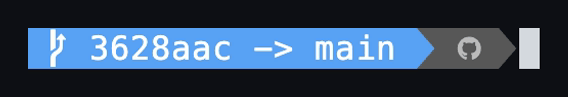
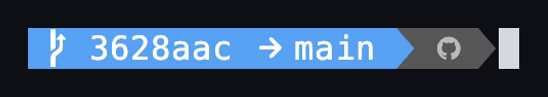
fix: name the same branch for a detached HEAD in both git backends, with a nerdfont arrow

Changed region(s): [[0.1551, 0.2784, 0.9617, 0.7113], [0.062, 0.3093, 0.1241, 0.6804]]

diff --git a/site/index.html b/site/index.html
@@ -78,7 +78,7 @@
             fsmonitor) and in-process gitoxide based on the size of the index.
           </p>
         </div>
-        <figure class="term"><img src="img/git.png" width="784" height="99" loading="lazy" alt="Three prompts in a repo: a dirty main branch with one modified, two untracked and one staged file, two commits ahead and one behind; the same branch clean after git stash; then a detached HEAD shown as 13aa74d -> main."></figure>
+        <figure class="term"><img src="img/git.png" width="784" height="99" loading="lazy" alt="Three prompts in a repo: a dirty main branch with one modified, two untracked and one staged file, two commits ahead and one behind; the same branch clean after git stash; then a detached HEAD shown as 13aa74d → main."></figure>
       </article>
 
       <article class="feature">

diff --git a/site/config.html b/site/config.html
@@ -457,7 +457,7 @@
 </div><!-- /example -->
           <div class="example" data-example="git/full">
   <div class="ex-label">All options, detached HEAD</div>
-  <figure class="term shot"><img src="img/config/git-full.png" width="284" height="48" loading="lazy" alt="The git example: All options, detached HEAD."></figure>
+  <figure class="term shot"><img src="img/config/git-full.png" width="274" height="48" loading="lazy" alt="The git example: All options, detached HEAD."></figure>
   <pre class="json"><code>{ <span class="k">"git"</span>: { <span class="k">"status_timeout_ms"</span>: <span class="n">500</span>, <span class="k">"backend"</span>: <span class="s">"cli"</span> } }</code></pre>
 </div><!-- /example -->
         </div>

diff --git a/src/modules/git/process.rs b/src/modules/git/process.rs
@@ -51,8 +51,9 @@ pub fn get_branch_name(s: &str) -> Option<&str> {
 
 /// `None` when `git` could not be run at all; `Some("Big Bang")` when it ran
 /// but found no commit (an unborn HEAD).
-pub fn get_detached_branch_name() -> Option<String> {
+pub fn get_detached_branch_name(path: &Path) -> Option<String> {
     let child = Command::new("git")
+        .current_dir(path)
         .args(["rev-parse", "--short", "HEAD"])
         .output()
         .ok()?;
@@ -62,7 +63,7 @@ pub fn get_detached_branch_name() -> Option<String> {
             .ok()?
             .split('\n')
             .next()?;
-        Some(detached_label(branch_at_head(), hash))
+        Some(detached_label(branch_at_head(path), hash))
     } else {
         Some(String::from("Big Bang"))
     }
@@ -71,30 +72,42 @@ pub fn get_detached_branch_name() -> Option<String> {
 /// The branch whose tip is HEAD, for labelling a detached HEAD. Local branches
 /// are preferred; remote-tracking branches (`origin/main`) are only consulted
 /// when no local branch matches.
-fn branch_at_head() -> Option<String> {
+fn branch_at_head(path: &Path) -> Option<String> {
     ["refs/heads/", "refs/remotes/"]
         .into_iter()
         .find_map(|prefix| {
+            // `%(refname:short)` would shorten `refs/remotes/origin/HEAD` to
+            // `origin`, so names are stripped here instead.
             let output = Command::new("git")
+                .current_dir(path)
                 .args([
                     "for-each-ref",
                     "--points-at=HEAD",
-                    "--format=%(refname:short)",
+                    "--format=%(refname) %(symref)",
                     prefix,
                 ])
                 .output()
                 .ok()
                 .filter(|out| out.status.success())?;
             let stdout = String::from_utf8(output.stdout).ok()?;
-            preferred_branch(
-                stdout
-                    .lines()
-                    .map(str::trim)
-                    // `origin/HEAD` is a symbolic ref, not a branch of its own.
-                    .filter(|name| !name.is_empty() && !name.ends_with("/HEAD"))
-                    .map(ToOwned::to_owned),
-            )
+            preferred_branch(branches_in(&stdout, prefix))
         })
+}
+
+/// Branch names from `for-each-ref --format='%(refname) %(symref)'` output,
+/// with `prefix` stripped. Symbolic refs such as `origin/HEAD` are not
+/// branches of their own and are skipped, as the gitoxide backend does.
+fn branches_in<'a>(stdout: &'a str, prefix: &'a str) -> impl Iterator<Item = String> + 'a {
+    stdout.lines().filter_map(move |line| {
+        let (refname, symref) = line.split_once(' ').unwrap_or((line, ""));
+        if !symref.trim().is_empty() {
+            return None;
+        }
+        refname
+            .strip_prefix(prefix)
+            .filter(|name| !name.is_empty())
+            .map(ToOwned::to_owned)
+    })
 }
 
 /// Whether the repository has any remote configured, and the browser URL of
@@ -113,14 +126,18 @@ fn branch_at_head() -> Option<String> {
 /// deleted, and is absent on a branch that was never pushed even though the
 /// repo has a remote.
 pub(super) fn remote_info(path: &Path) -> (bool, Option<String>) {
-    super::gitoxide::remote_info(path).unwrap_or_else(remote_info_from_cli)
+    super::gitoxide::remote_info(path).unwrap_or_else(|| remote_info_from_cli(path))
 }
 
 /// [`remote_info`] via a single `git remote -v`. Both remote names and their
 /// URLs come out of the one call: `git remote` for the names plus
 /// `git remote get-url` for the chosen one would cost two more spawns.
-fn remote_info_from_cli() -> (bool, Option<String>) {
-    let Ok(output) = Command::new("git").args(["remote", "-v"]).output() else {
+fn remote_info_from_cli(path: &Path) -> (bool, Option<String>) {
+    let Ok(output) = Command::new("git")
+        .current_dir(path)
+        .args(["remote", "-v"])
+        .output()
+    else {
         return (false, None);
     };
     if !output.status.success() {
@@ -166,6 +183,7 @@ pub fn run_git(path: &Path) -> GitStats {
 
 fn try_run_git(path: &Path) -> Option<GitStats> {
     let output = Command::new("git")
+        .current_dir(path)
         .args(["status", "--porcelain", "-b"])
         .output()
         .ok()?
@@ -195,7 +213,7 @@ fn try_run_git(path: &Path) -> Option<GitStats> {
             }
             String::from(branch_name)
         } else {
-            get_detached_branch_name()?
+            get_detached_branch_name(path)?
         }
     };
     let mut add_file = |entry: &str| {
@@ -234,7 +252,20 @@ fn try_run_git(path: &Path) -> Option<GitStats> {
 
 #[cfg(test)]
 mod tests {
-    use super::parse_remote_listing;
+    use super::{branches_in, parse_remote_listing};
+
+    #[test]
+    fn symbolic_remote_heads_are_not_branches() {
+        let stdout = "\
+refs/remotes/origin/HEAD refs/remotes/origin/main
+refs/remotes/origin/main 
+refs/remotes/upstream/feat/x 
+";
+        assert_eq!(
+            branches_in(stdout, "refs/remotes/").collect::<Vec<_>>(),
+            ["origin/main", "upstream/feat/x"]
+        );
+    }
 
     #[test]
     fn a_repo_without_remotes_has_neither_flag_nor_url() {

diff --git a/src/modules/git/gitoxide.rs b/src/modules/git/gitoxide.rs
@@ -274,6 +274,17 @@ mod tests {
         dir
     }
 
+    /// The label both backends should give HEAD when detached at `branch`.
+    fn detached(repo: &Path, branch: &str) -> String {
+        let output = Command::new("git")
+            .current_dir(repo)
+            .args(["rev-parse", "--short", "HEAD"])
+            .output()
+            .unwrap();
+        let hash = String::from_utf8(output.stdout).unwrap();
+        super::detached_label(Some(branch.to_owned()), hash.trim())
+    }
+
     /// The CLI backend takes its remote fields from here rather than spending a
     /// `git remote` spawn on them, so they have to agree with what a status
     /// walk of the same repository reports.
@@ -337,13 +348,9 @@ mod tests {
         let repo = init_repo();
         git(&repo, &["checkout", "-q", "--detach"]);
 
-        let stats = run_git(&repo);
-        assert!(
-            stats.branch_name.ends_with(" -> main"),
-            "expected `<hash> -> main`, got {:?}",
-            stats.branch_name
-        );
-        assert!(stats.branch_name.len() > " -> main".len());
+        let expected = detached(&repo, "main");
+        assert_eq!(run_git(&repo).branch_name, expected);
+        assert_eq!(super::super::process::run_git(&repo).branch_name, expected);
 
         std::fs::remove_dir_all(&repo).ok();
     }
@@ -356,7 +363,7 @@ mod tests {
 
         let stats = run_git(&repo);
         assert!(
-            !stats.branch_name.contains("->") && stats.branch_name.len() >= 7,
+            !stats.branch_name.contains(' ') && stats.branch_name.len() >= 7,
             "expected a bare hash, got {:?}",
             stats.branch_name
         );
@@ -368,6 +375,14 @@ mod tests {
     fn detached_head_at_a_remote_tip_falls_back_to_the_remote_branch() {
         let repo = init_repo();
         git(&repo, &["update-ref", "refs/remotes/origin/main", "HEAD"]);
+        git(
+            &repo,
+            &[
+                "symbolic-ref",
+                "refs/remotes/origin/HEAD",
+                "refs/remotes/origin/main",
+            ],
+        );
         // Move `main` on so only the remote-tracking ref matches the old tip.
         git(&repo, &["commit", "-q", "--allow-empty", "-m", "ahead"]);
         git(
@@ -375,12 +390,9 @@ mod tests {
             &["checkout", "-q", "--detach", "refs/remotes/origin/main"],
         );
 
-        let stats = run_git(&repo);
-        assert!(
-            stats.branch_name.ends_with(" -> origin/main"),
-            "expected `<hash> -> origin/main`, got {:?}",
-            stats.branch_name
-        );
+        let expected = detached(&repo, "origin/main");
+        assert_eq!(run_git(&repo).branch_name, expected);
+        assert_eq!(super::super::process::run_git(&repo).branch_name, expected);
 
         std::fs::remove_dir_all(&repo).ok();
     }

diff --git a/src/modules/git.rs b/src/modules/git.rs
@@ -137,10 +137,10 @@ impl GitStats {
 /// Label for a detached HEAD. A worktree checked out at a branch tip without
 /// a branch of its own (`git worktree add --detach`, `git checkout origin/main`)
 /// is what `git status` calls "HEAD detached at main"; it shows as
-/// `<hash> -> main`. Once HEAD moves off every branch tip only the hash remains.
+/// `<hash>  main`. Once HEAD moves off every branch tip only the hash remains.
 fn detached_label(branch: Option<String>, hash: &str) -> String {
     match branch {
-        Some(branch) => format!("{hash} -> {branch}"),
+        Some(branch) => format!("{hash} {DETACHED_ARROW} {branch}"),
         None => hash.to_owned(),
     }
 }
@@ -461,6 +461,7 @@ const FANCY_STAR: &str = "\u{273C}";
 const GITHUB_LOGO: &str = "\u{e709}";
 const GIT_ICON: &str = "\u{e0a0}";
 const WORKTREE_ICON: &str = "\u{f1bb}";
+const DETACHED_ARROW: &str = "\u{f432}";
 
 /// Git status for one repository. The status walk is always attempted live
 /// (see [`Git::with_config`]); the cache only stands in when it takes too
@@ -758,7 +759,7 @@ mod tests {
     fn detached_label_points_at_the_branch_when_known() {
         assert_eq!(
             detached_label(Some("main".into()), "abc1234"),
-            "abc1234 -> main"
+            "abc1234 \u{f432} main"
         );
         assert_eq!(detached_label(None, "abc1234"), "abc1234");
     }

diff --git a/README.md b/README.md
@@ -342,7 +342,7 @@ upstream tracking ref that still resolves, so they are absent on a branch that w
 branch has been deleted.
 
 A detached HEAD shows the short commit hash. When that commit is the tip of a branch (a worktree created with
-`git worktree add --detach`, or `git checkout origin/main`) the branch follows it, as `1a2b3c4 -> main`; local
+`git worktree add --detach`, or `git checkout origin/main`) the branch follows it, as `1a2b3c4 → main`; local
 branches take precedence over remote-tracking ones, and `main`/`master` over other names.
 
 Status collection waits up to `status_timeout_ms` (250 by default). If it takes longer, the last cached result is
